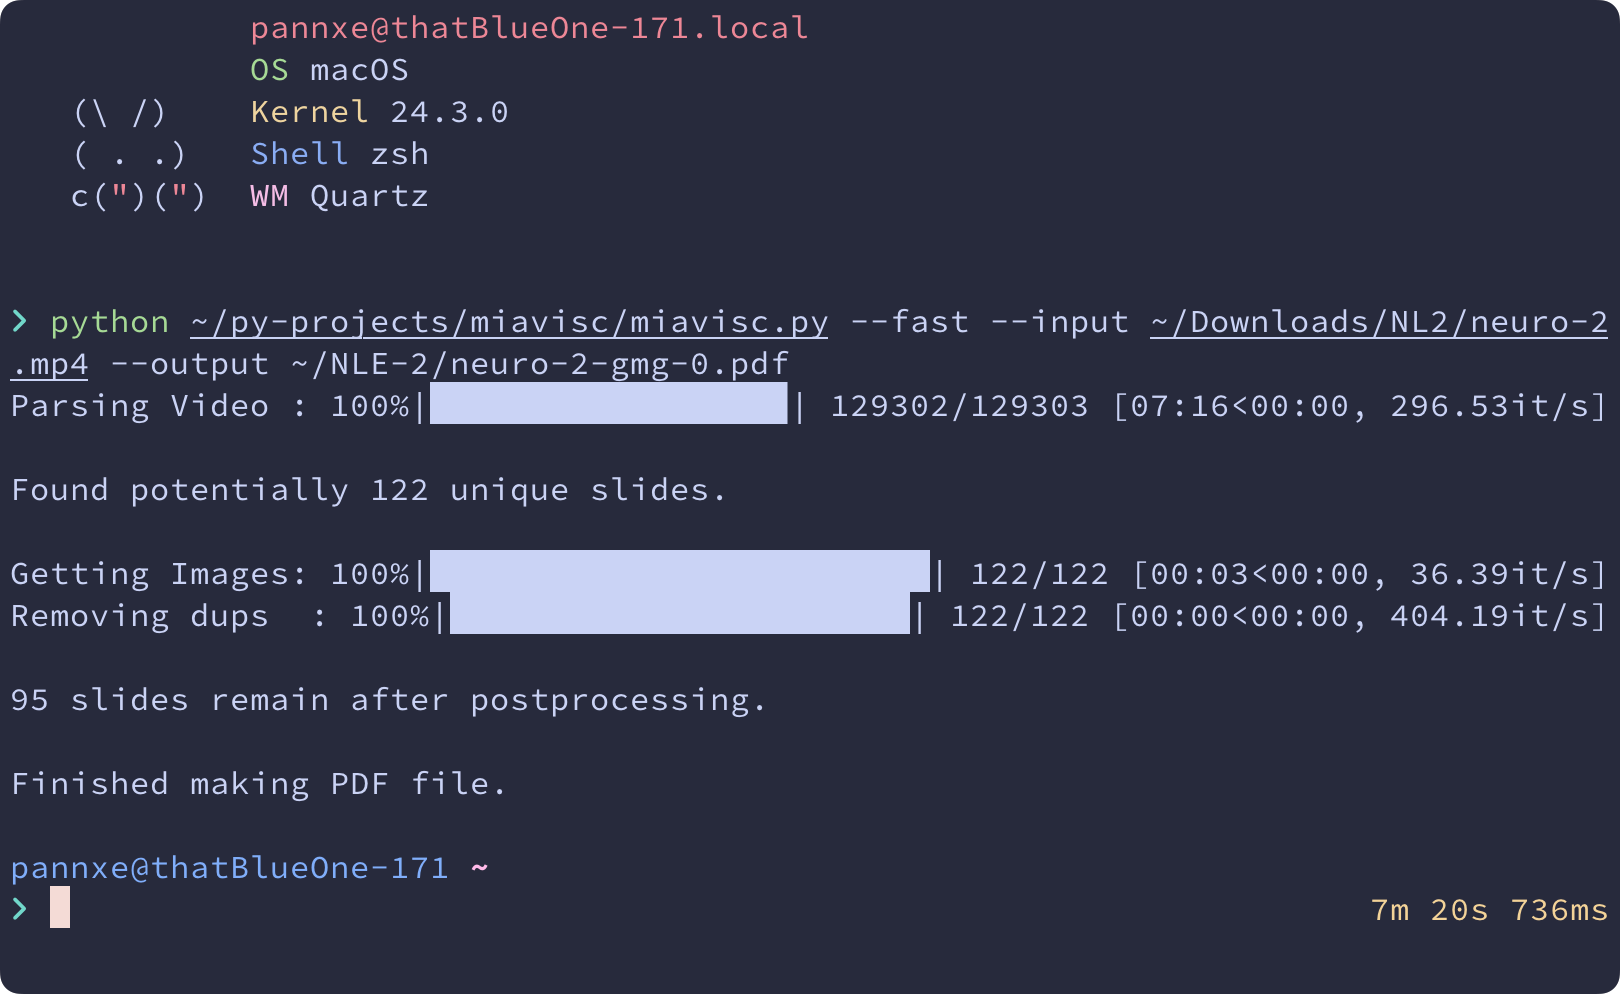
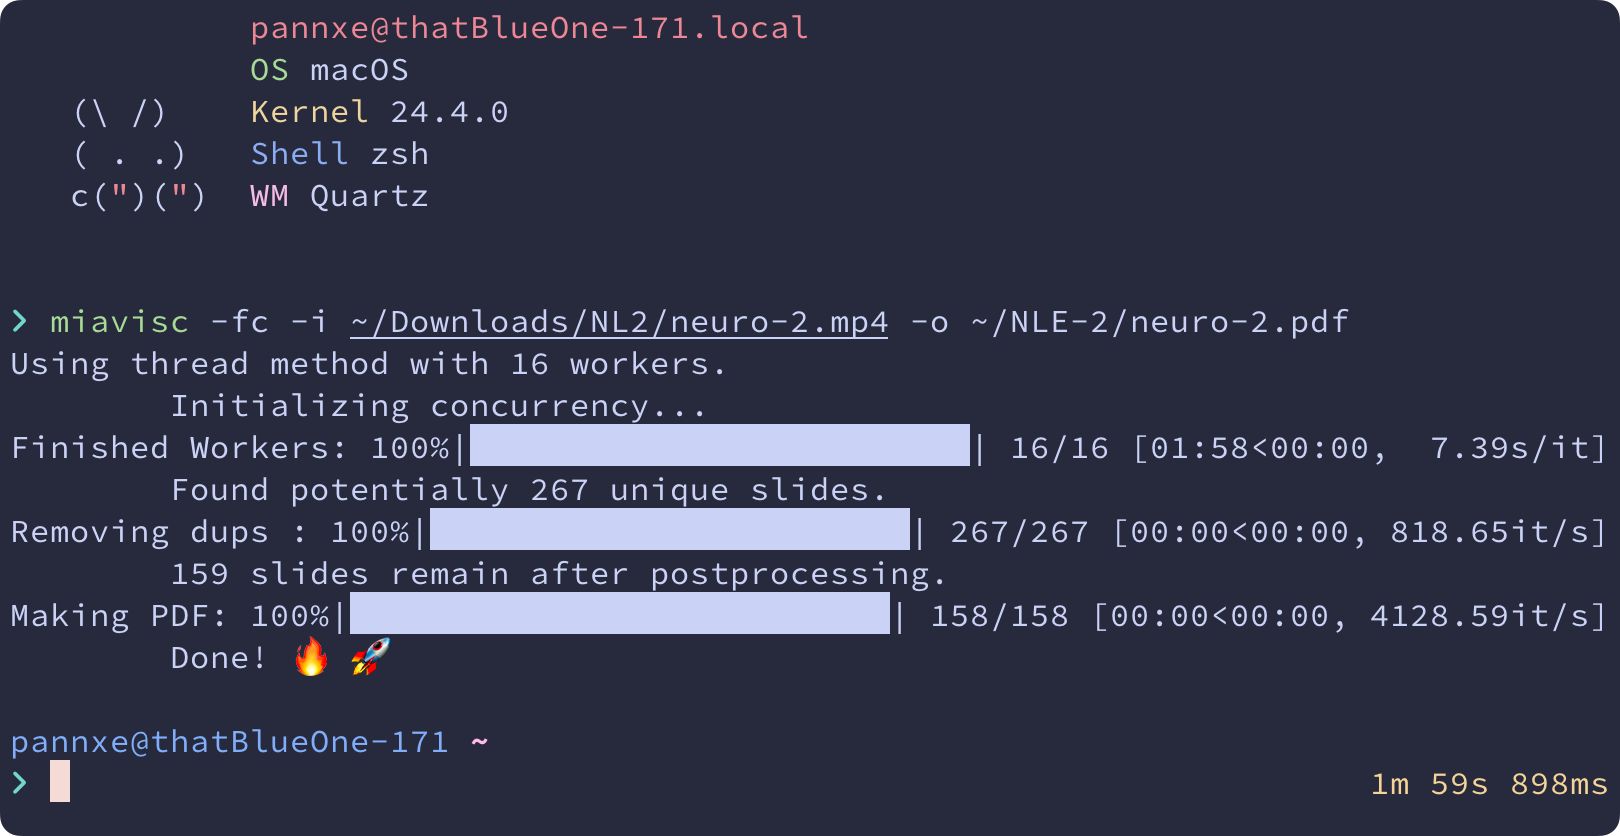
Update readme

diff --git a/README.md b/README.md
@@ -1,17 +1,17 @@
 # Miavisc is a Video → Slide Converter
 
-![alt text](img/image.png)
+![Screenshot](image.png)
 
 Born out of my frustration, this tool will convert video of a lecture to pdf file at a **blazzingly fast speed** 🚀 (sarcasm intended).
 
 Key features includes:
 
-- [x] **Blezzingly fast 🚀** — compare to other similar programs[^3], Miavisc is **> 10x faster**[^4] while producing comparable result[^5].
+- [x] **Blezzingly fast 🚀** — compare to other similar programs[^3], Miavisc is **> 11x faster**[^4] while producing comparable result[^5].
 - [x] **Tunable similarity threshold** — so slightly different frame due to mouse movement / lazer pointers are not treated as different page
 - [x] **Selectable ignored area** — only process centre portion area (to ignore camera, etc.)
 
 [^3]: That I have tried (e.g., those in reference section).
-[^4]: Miavisc at 2:11 min. vs [binh234/video2slides](https://github.com/binh234/video2slides) at 22:08 min. Tested on Macbook Air M2, 512 GB SSD, 16 GM memory using 1280x720 @ 30fps, mp4, 1:11 hr lecture. Using GMG algorithm, no skip frames.
+[^4]: Miavisc at 2:00 min. vs [binh234/video2slides](https://github.com/binh234/video2slides) at 22:08 min. Tested on Macbook Air M2, 512 GB SSD, 16 GM memory. Tested with 1280x720 @ 30fps, mp4, 1:11 hr lecture using GMG algorithm with no skip frames.
 [^5]:
     Overall, results from both programs are very usable without any significant difference (extra or missing slides here and there).
     Both requires some further manual processing (e.g., delete residual duplications).
@@ -71,8 +71,8 @@ Here's is what without `--fast` look like:
 
 | Options | Exec time | Diff    |
 | ------- | --------- | ------- |
-| `-fc`   | 2:11 min  | `+286%` |
-| `-fck`  | 1:25 min  | `+192%` |
+| `-fc`   | 2:00 min  | `+312%` |
+| `-fck`  | 1:17 min  | `+213%` |
 
 ## Author
 
